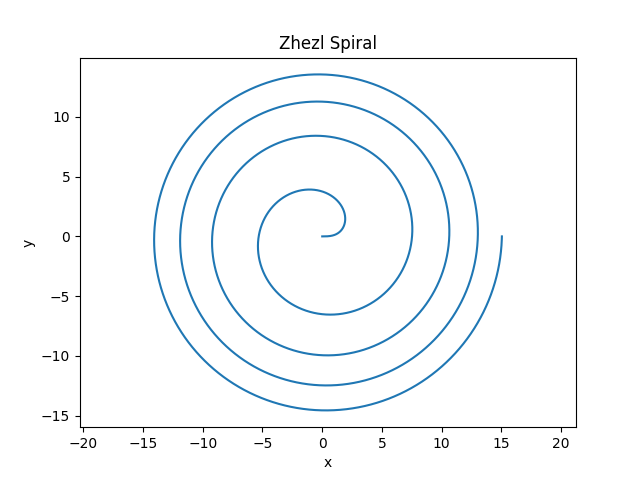
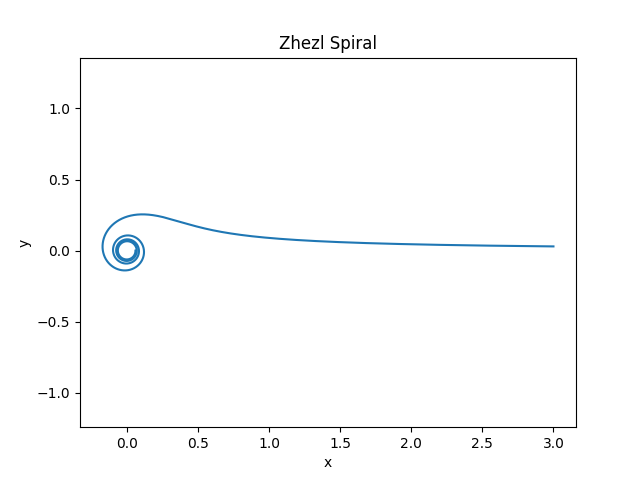
lab 6

diff --git a/lab_6_osn_task4_zhezl.py b/lab_6_osn_task4_zhezl.py
@@ -1,10 +1,10 @@
 import matplotlib.pyplot as plt 
 import numpy as np
 
-phi = np.linspace(0, 8*np.pi, 1000000)
+phi = np.linspace(0.01, 8*np.pi, 1000000)
 
-k = 3
-r = k * phi ** 0.5
+k = 0.3
+r = k / phi ** 0.5
 
 x = r * np.cos(phi)
 y = r * np.sin(phi)

diff --git a/lab_6_osn_task4_log.py b/lab_6_osn_task4_log.py
@@ -3,7 +3,7 @@ import numpy as np
 
 phi = np.linspace(0, 8*np.pi, 1000000)
 
-b = 1
+b = 0.1
 r = np.exp(b * phi)
 
 x = r * np.cos(phi)

diff --git a/lab_6_osn_task4_rose.py b/lab_6_osn_task4_rose.py
@@ -3,7 +3,7 @@ import numpy as np
 
 phi = np.linspace(0, 20*np.pi, 1000000)
 
-k = 50
+k = 5
 r = np.sin(k * phi)
 
 x = r * np.cos(phi)
